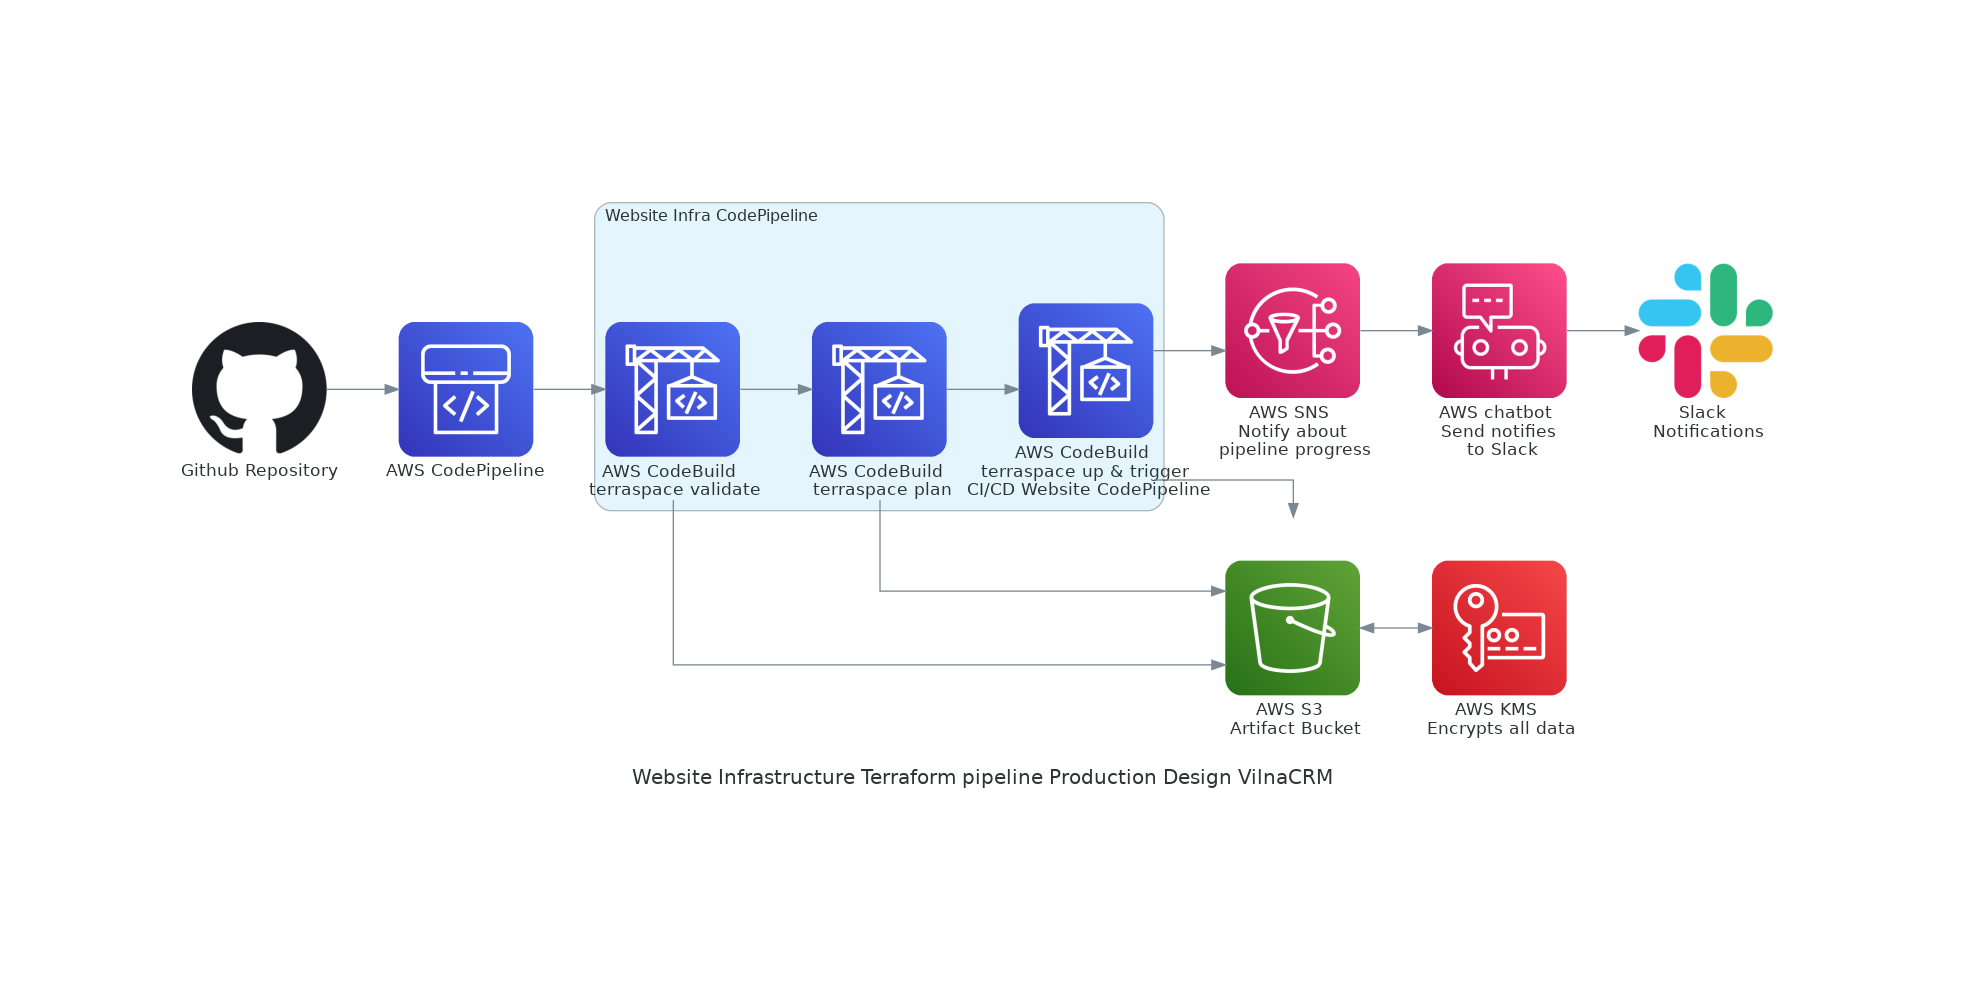
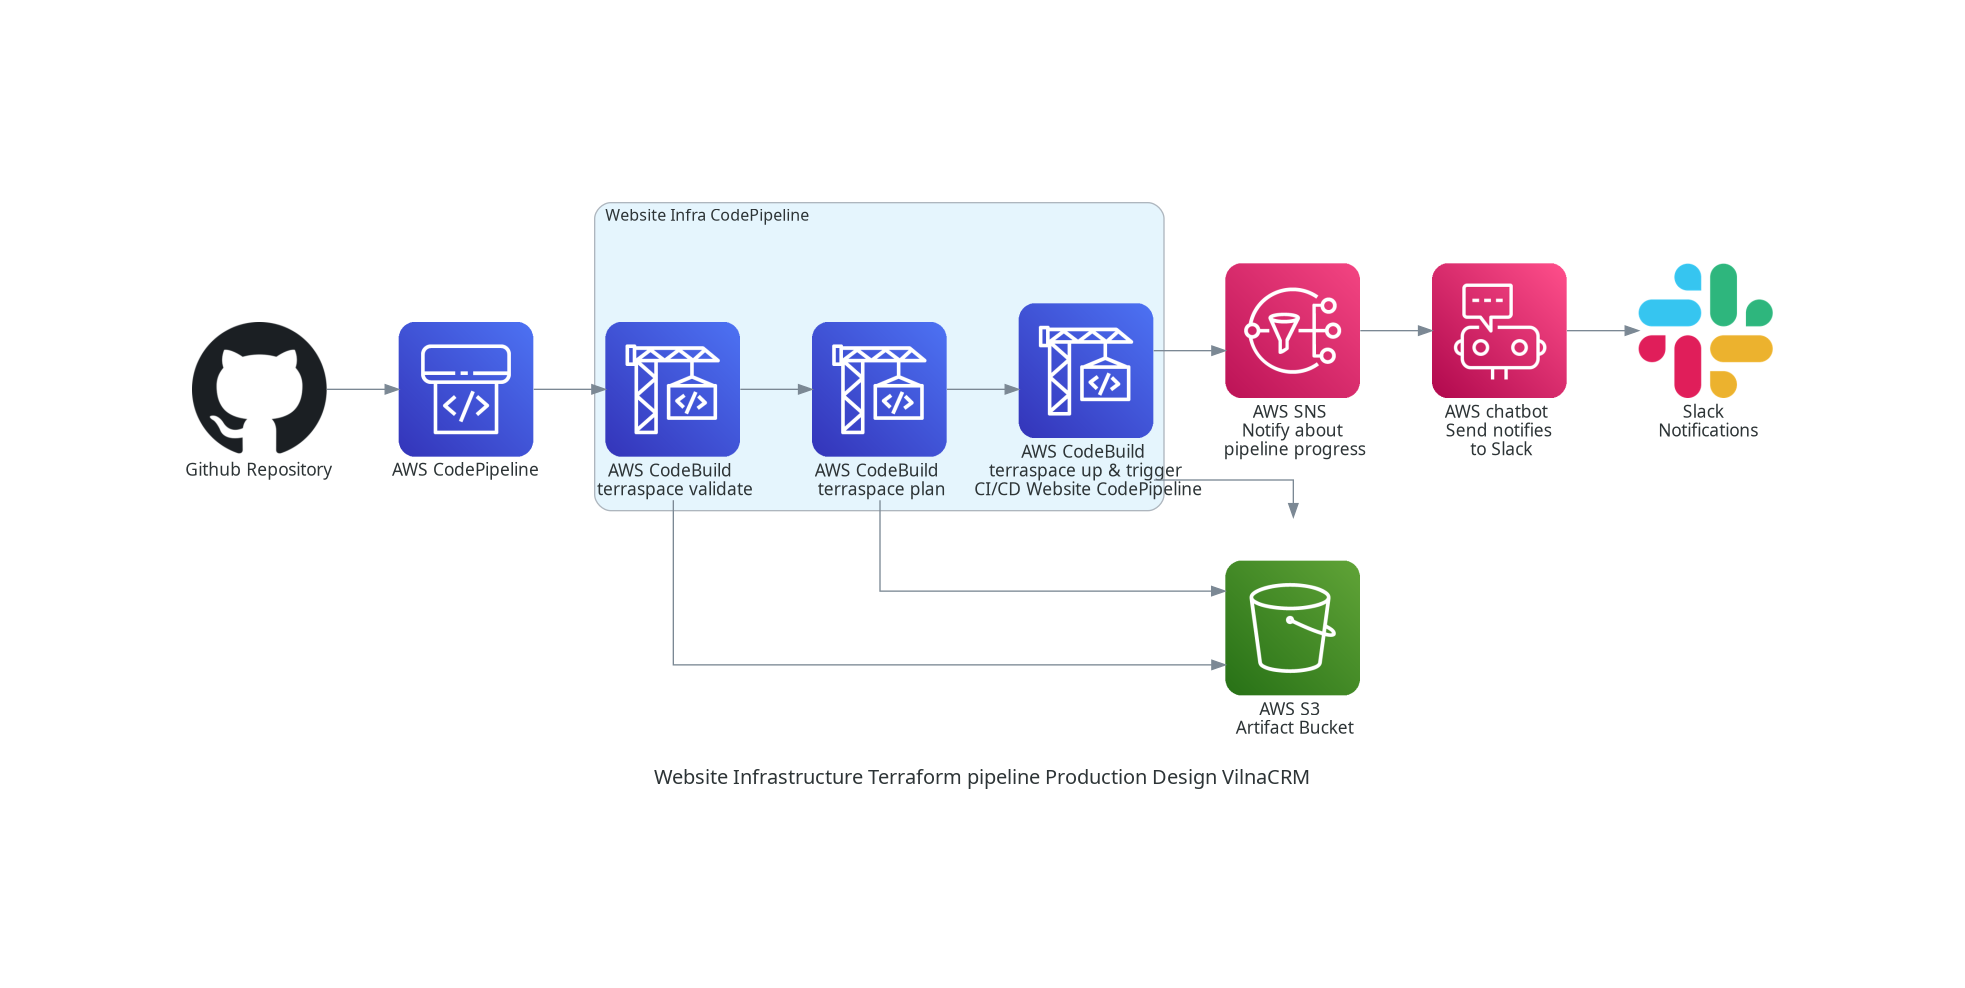
refactor(#27): remove unused improts

diff --git a/diagrams/py/prod/ci_cd_infra_pipeline_design.py b/diagrams/py/prod/ci_cd_infra_pipeline_design.py
@@ -1,7 +1,6 @@
-from diagrams import Cluster, Diagram, Edge
+from diagrams import Cluster, Diagram
 from diagrams.onprem.vcs import Github
 from diagrams.aws.devtools import Codepipeline, Codebuild
-from diagrams.aws.security import KMS
 from diagrams.aws.storage import SimpleStorageServiceS3
 from diagrams.aws.management import Chatbot
 from diagrams.aws.integration import SNS

diff --git a/diagrams/py/prod/ci_cd_website_pipeline_design.py b/diagrams/py/prod/ci_cd_website_pipeline_design.py
@@ -1,7 +1,6 @@
-from diagrams import Cluster, Diagram, Edge
+from diagrams import Cluster, Diagram
 from diagrams.onprem.vcs import Github
 from diagrams.aws.devtools import Codepipeline, Codebuild
-from diagrams.aws.security import KMS
 from diagrams.aws.storage import SimpleStorageServiceS3
 from diagrams.aws.management import Chatbot
 from diagrams.aws.integration import SNS

diff --git a/diagrams/py/prod/website_infra_pipeline_design.py b/diagrams/py/prod/website_infra_pipeline_design.py
@@ -1,7 +1,6 @@
-from diagrams import Cluster, Diagram, Edge
+from diagrams import Cluster, Diagram
 from diagrams.onprem.vcs import Github
 from diagrams.aws.devtools import Codepipeline, Codebuild
-from diagrams.aws.security import KMS
 from diagrams.aws.storage import SimpleStorageServiceS3
 from diagrams.aws.management import Chatbot
 from diagrams.aws.integration import SNS

diff --git a/diagrams/py/test/ci_cd_infra_pipeline_design.py b/diagrams/py/test/ci_cd_infra_pipeline_design.py
@@ -1,7 +1,6 @@
-from diagrams import Cluster, Diagram, Edge
+from diagrams import Cluster, Diagram
 from diagrams.onprem.vcs import Github
 from diagrams.aws.devtools import Codepipeline, Codebuild
-from diagrams.aws.security import KMS
 from diagrams.aws.storage import SimpleStorageServiceS3
 from diagrams.aws.management import Chatbot
 from diagrams.aws.integration import SNS

diff --git a/diagrams/py/test/ci_cd_website_pipeline_design.py b/diagrams/py/test/ci_cd_website_pipeline_design.py
@@ -1,7 +1,6 @@
-from diagrams import Cluster, Diagram, Edge
+from diagrams import Cluster, Diagram
 from diagrams.onprem.vcs import Github
 from diagrams.aws.devtools import Codepipeline, Codebuild
-from diagrams.aws.security import KMS
 from diagrams.aws.storage import SimpleStorageServiceS3
 from diagrams.aws.management import Chatbot
 from diagrams.aws.integration import SNS

diff --git a/diagrams/py/test/website_infra_pipeline_design.py b/diagrams/py/test/website_infra_pipeline_design.py
@@ -1,7 +1,6 @@
-from diagrams import Cluster, Diagram, Edge
+from diagrams import Cluster, Diagram
 from diagrams.onprem.vcs import Github
 from diagrams.aws.devtools import Codepipeline, Codebuild
-from diagrams.aws.security import KMS
 from diagrams.aws.storage import SimpleStorageServiceS3
 from diagrams.aws.management import Chatbot
 from diagrams.aws.integration import SNS
